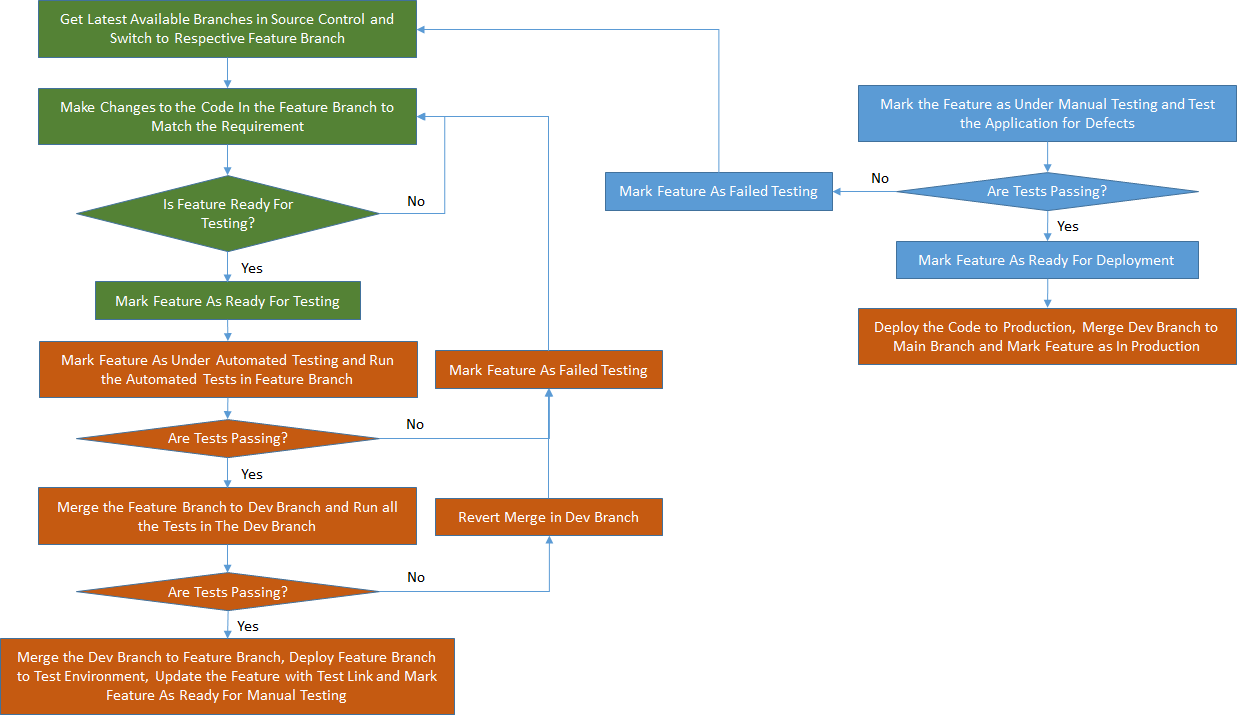
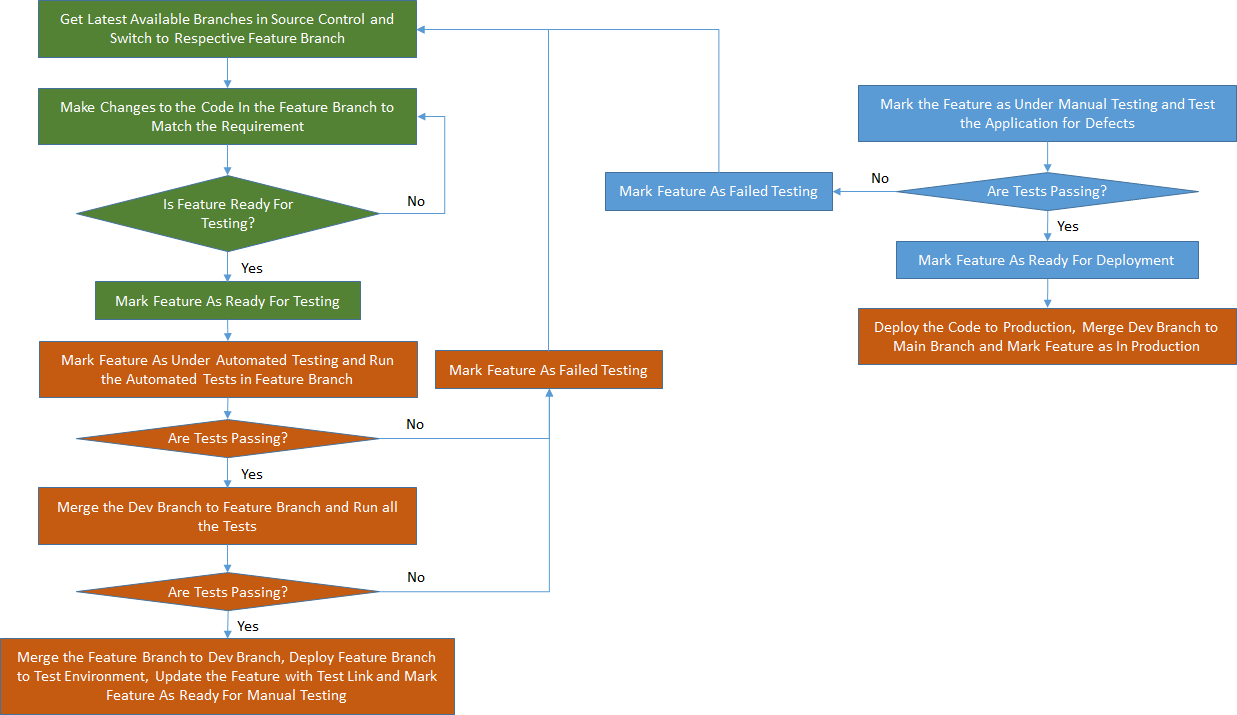
Updated new feature development process.

Changed region(s): [[0.3379, 0.6769, 0.553, 0.7692], [0.0922, 0.7077, 0.2458, 0.7385], [0.0614, 0.8923, 0.1843, 0.9231]]

diff --git a/README.md b/README.md
@@ -6,11 +6,13 @@ The idea is to build an ALM tool with minimum to no configuration which is funct
 
 Note: This project is still in active development.
 
-## Entity Hierarchy: ##
+## Entity Relationship and Hierarchy: ##
 
 ![Entity Hierarchy](entity-hierarchy.png)
 
 ## Processes: ##
+
+Note: Even production defects are considered as features as that would simplify the process and make it uniform.
 
 ### Legend: ###
 
@@ -20,6 +22,6 @@ Note: This project is still in active development.
 
 ![New Feature Request](new-feature-request-process.png)
 
-### New Feature Development: ###
+### New Feature Development and Deployment: ###
 
 ![New Feature Development](new-feature-development-process.png)
